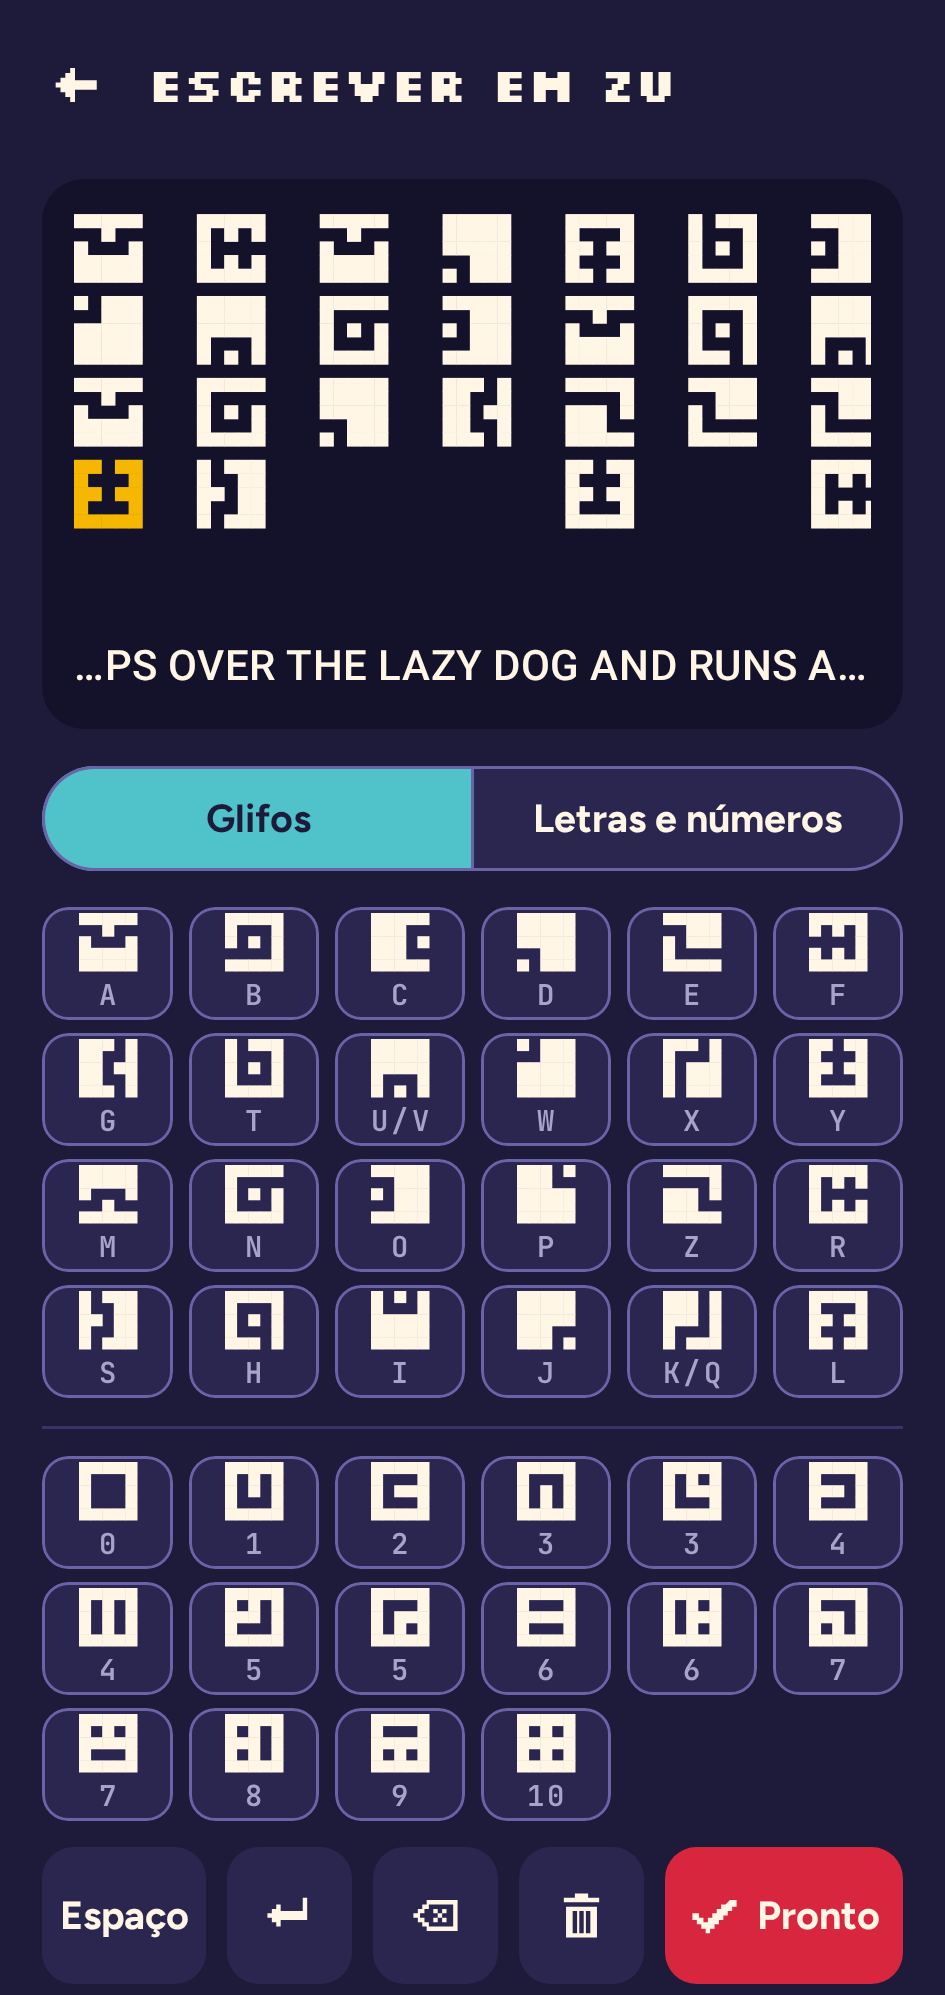
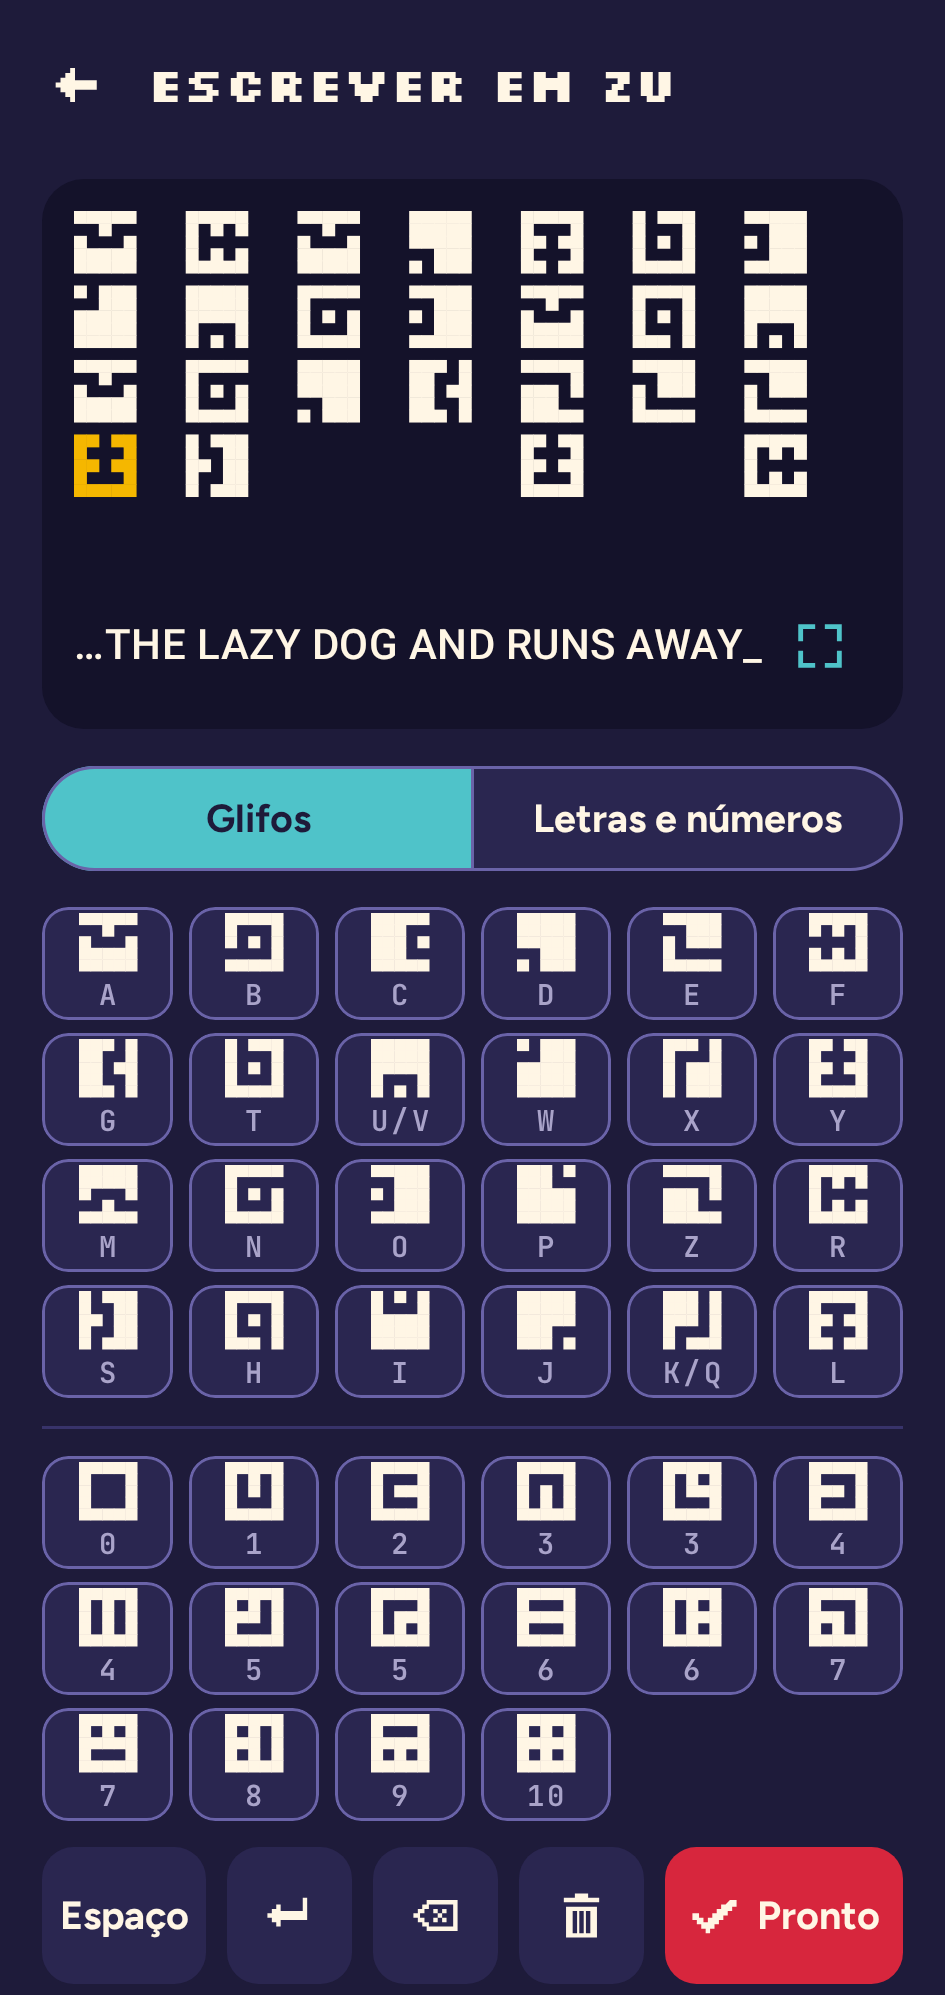
Write by hand: full-screen message modal with zoom
The keyboard keeps priority; an expand button next to the English line
opens the whole message in a full-screen modal (pinch to zoom, drag when
zoomed, full English text); closing returns to typing. The inline
preview draws only whole glyphs, so no half-cut column at the edge.

Claude-Session: https://claude.ai/code/session_01BCnJVnooueZi2qjpizvg1o

Changed region(s): [[0.1841, 0.0932, 0.9206, 0.2797], [0.0921, 0.3108, 0.8899, 0.3419], [0.0614, 0.0932, 0.1534, 0.2797]]

diff --git a/app/src/main/kotlin/com/davicolzer/zureader/ui/write/WriteScreen.kt b/app/src/main/kotlin/com/davicolzer/zureader/ui/write/WriteScreen.kt
@@ -23,6 +23,7 @@ import androidx.compose.material3.Icon
 import androidx.compose.material3.IconButton
 import androidx.compose.material3.MaterialTheme
 import androidx.compose.material3.Scaffold
+import androidx.compose.material3.Surface
 import androidx.compose.material3.SegmentedButton
 import androidx.compose.material3.SegmentedButtonDefaults
 import androidx.compose.material3.SingleChoiceSegmentedButtonRow
@@ -50,6 +51,20 @@ import androidx.compose.ui.semantics.semantics
 import androidx.compose.ui.text.style.TextAlign
 import androidx.compose.ui.text.style.TextOverflow
 import androidx.compose.ui.unit.dp
+import androidx.compose.ui.window.Dialog
+import androidx.compose.ui.window.DialogProperties
+import androidx.compose.foundation.rememberScrollState
+import androidx.compose.foundation.verticalScroll
+import androidx.compose.ui.semantics.heading
+import androidx.compose.foundation.gestures.awaitEachGesture
+import androidx.compose.foundation.gestures.awaitFirstDown
+import androidx.compose.foundation.gestures.calculateCentroid
+import androidx.compose.foundation.gestures.calculatePan
+import androidx.compose.foundation.gestures.calculateZoom
+import androidx.compose.ui.input.pointer.pointerInput
+import androidx.compose.ui.input.pointer.positionChange
+import com.davicolzer.zureader.vision.Point
+import com.davicolzer.zureader.vision.Viewport
 import com.davicolzer.zureader.R
 import com.davicolzer.zureader.ui.components.MiniGlyph
 import com.davicolzer.zureader.ui.theme.ZuTheme
@@ -79,14 +94,20 @@ fun WriteScreen(
     onDone: (String) -> Unit,
     onBack: () -> Unit,
     startWithLetters: Boolean = false,
+    /** Abre já com a mensagem em tela cheia (prévias). */
+    startFullScreen: Boolean = false,
     /** Teclas por linha (4 ou 6; ver [KeyboardLayout]). */
     columns: Int = 6,
 ) {
     val layout = KeyboardLayout.of(columns)
     var text by rememberSaveable(draft) { mutableStateOf(draft) }
     var byLetters by rememberSaveable { mutableStateOf(startWithLetters) }
+    var fullScreen by rememberSaveable { mutableStateOf(startFullScreen) }
     // K/Q e U/V tocados pelo glifo: a letra vem do contexto do inglês e muda enquanto o usuário digita
     val message = ZuWriter.normalize(SharedLetters.resolve(text))
+    if (fullScreen && message.isNotEmpty()) {
+        FullMessage(message, direction, onClose = { fullScreen = false })
+    }
 
     Scaffold(
         containerColor = MaterialTheme.colorScheme.background,
@@ -128,14 +149,25 @@ fun WriteScreen(
                 ZuPreview(message, direction, Modifier.fillMaxWidth().weight(1f))
                 // sem nada escrito, a dica usa a área toda (cabe em tela pequena)
                 if (message.isNotEmpty()) {
-                    Text(
-                        englishLine(message, text.endsWith('\n')),
-                        style = MaterialTheme.typography.titleMedium,
-                        color = MaterialTheme.colorScheme.onBackground,
-                        maxLines = 1,
-                        overflow = TextOverflow.Ellipsis,
-                        modifier = Modifier.fillMaxWidth().semantics { contentDescription = message },
-                    )
+                    Row(verticalAlignment = Alignment.CenterVertically) {
+                        Text(
+                            englishLine(message, text.endsWith('\n')),
+                            style = MaterialTheme.typography.titleMedium,
+                            color = MaterialTheme.colorScheme.onBackground,
+                            maxLines = 1,
+                            overflow = TextOverflow.Ellipsis,
+                            modifier = Modifier.weight(1f).semantics { contentDescription = message },
+                        )
+                        // mensagem grande: o teclado tem prioridade; ampliar abre a mensagem inteira
+                        IconButton(onClick = { fullScreen = true }, modifier = Modifier.size(40.dp)) {
+                            Icon(
+                                painterResource(R.drawable.ic_pixel_expand),
+                                contentDescription = stringResource(R.string.write_expand),
+                                tint = MaterialTheme.colorScheme.tertiary,
+                                modifier = Modifier.size(22.dp),
+                            )
+                        }
+                    }
                 }
             }
 
@@ -219,6 +251,9 @@ private val MESSAGE_MIN = 170.dp
 private val PREVIEW_MIN_GLYPH = 26.dp
 private val PREVIEW_MAX_GLYPH = 44.dp
 
+/** Maior glifo na tela cheia. */
+private val FULL_MAX_GLYPH = 72.dp
+
 /** Altura do resto da tela fora as teclas: escolha Glifos/Letras, linha de ações, separação e espaços. */
 private val FIXED_PARTS = 190.dp
 
@@ -269,9 +304,119 @@ private fun <T> KeyGrid(layout: KeyboardLayout, keyHeight: androidx.compose.ui.u
     }
 }
 
-/** A mensagem desenhada em Zu, ajustada ao espaço; o último glifo em dourado. */
+/** A mensagem inteira em tela cheia (modal): todas as colunas e o texto todo; fechar volta a escrever. */
 @Composable
-private fun ZuPreview(message: String, direction: ReadingDirection, modifier: Modifier) {
+private fun FullMessage(message: String, direction: ReadingDirection, onClose: () -> Unit) {
+    Dialog(onDismissRequest = onClose, properties = DialogProperties(usePlatformDefaultWidth = false)) {
+      Surface(Modifier.fillMaxSize(), color = MaterialTheme.colorScheme.background, contentColor = MaterialTheme.colorScheme.onBackground) {
+        Column(
+            Modifier
+                .fillMaxSize()
+                .navigationBarsPadding()
+                .padding(16.dp),
+            verticalArrangement = Arrangement.spacedBy(12.dp),
+        ) {
+            Row(verticalAlignment = Alignment.CenterVertically) {
+                Text(
+                    stringResource(R.string.write_full_title),
+                    style = MaterialTheme.typography.titleLarge,
+                    modifier = Modifier.weight(1f).semantics { heading() },
+                )
+                IconButton(onClick = onClose) {
+                    Icon(painterResource(R.drawable.ic_pixel_close), stringResource(R.string.write_full_close), Modifier.size(22.dp))
+                }
+            }
+            ZoomableZu(
+                message,
+                direction,
+                Modifier
+                    .fillMaxWidth()
+                    .weight(1f)
+                    .clip(RoundedCornerShape(16.dp))
+                    .background(ZuTheme.colors.ink),
+            )
+            Text(
+                stringResource(R.string.write_full_hint),
+                style = MaterialTheme.typography.bodySmall,
+                color = MaterialTheme.colorScheme.onSurfaceVariant,
+            )
+            Text(
+                ReadingMode.MIXED.display(message),
+                style = MaterialTheme.typography.titleMedium,
+                modifier = Modifier.fillMaxWidth().heightIn(max = 160.dp).verticalScroll(rememberScrollState()),
+            )
+        }
+      }
+    }
+}
+
+/**
+ * A mensagem inteira, que começa mostrando tudo; dois dedos ampliam, e ampliada um dedo arrasta.
+ * (Mesma conta de [Viewport] da foto: a "imagem" é a mensagem em unidades de bloco × 10.)
+ */
+@Composable
+private fun ZoomableZu(message: String, direction: ReadingDirection, modifier: Modifier) {
+    val glyphs = remember(message, direction) { ZuWriter.layout(message, direction) }
+    if (glyphs.isEmpty()) return
+    val ink = MaterialTheme.colorScheme.onBackground
+    val newestColor = ZuTheme.colors.gold
+    val half = glyphs.first().size / 2
+    val margin = half
+    val minX = glyphs.minOf { it.x } - half - margin
+    val minY = glyphs.minOf { it.y } - half - margin
+    val width = ((glyphs.maxOf { it.x } + half + margin - minX) * UNIT).toInt()
+    val height = ((glyphs.maxOf { it.y } + half + margin - minY) * UNIT).toInt()
+    BoxWithConstraints(modifier) {
+        val density = androidx.compose.ui.platform.LocalDensity.current
+        val viewW = with(density) { maxWidth.toPx() }
+        val viewH = with(density) { maxHeight.toPx() }
+        var view by remember(message, viewW, viewH) { mutableStateOf(Viewport.fit(viewW, viewH, width, height)) }
+        Canvas(
+            Modifier
+                .fillMaxSize()
+                .clipToBounds()
+                .pointerInput(message, viewW, viewH) {
+                    awaitEachGesture {
+                        awaitFirstDown(requireUnconsumed = false)
+                        while (true) {
+                            val event = awaitPointerEvent()
+                            val pressed = event.changes.filter { it.pressed }
+                            if (pressed.isEmpty()) break
+                            if (pressed.size >= 2) {
+                                val c = event.calculateCentroid()
+                                val pan = event.calculatePan()
+                                view = view.zoomedAt(c.x, c.y, event.calculateZoom()).panned(pan.x, pan.y)
+                            } else if (view.zoom > 1f) {
+                                val d = pressed.first().positionChange()
+                                view = view.panned(d.x, d.y)
+                            }
+                            event.changes.forEach { it.consume() }
+                        }
+                    }
+                },
+        ) {
+            val cell = 2 * half * UNIT * view.scale / 5
+            glyphs.forEachIndexed { i, g ->
+                val p = view.toView(Point((g.x - half - minX) * UNIT, (g.y - half - minY) * UNIT))
+                val color = if (i == glyphs.lastIndex) newestColor else ink
+                for (r in 0 until 5) for (c in 0 until 5) if (g.bits[r, c]) {
+                    drawRect(color, Offset(p.x + c * cell, p.y + r * cell), Size(cell + 0.5f, cell + 0.5f))
+                }
+            }
+        }
+    }
+}
+
+/** Unidades de bloco → "pixels" da mensagem na tela cheia. */
+private const val UNIT = 10f
+
+/**
+ * A mensagem desenhada em Zu, ajustada ao espaço; o último glifo em dourado.
+ * Com [showAll], tudo cabe (tela cheia); sem, as colunas inteiras ficam legíveis e, se não couberem
+ * todas, aparecem as mais recentes.
+ */
+@Composable
+private fun ZuPreview(message: String, direction: ReadingDirection, modifier: Modifier, showAll: Boolean = false) {
     val glyphs = remember(message, direction) { ZuWriter.layout(message, direction) }
     val ink = MaterialTheme.colorScheme.onBackground
     val last = ZuTheme.colors.gold
@@ -296,7 +441,11 @@ private fun ZuPreview(message: String, direction: ReadingDirection, modifier: Mo
                 // as colunas mais recentes ficam à vista; nunca maior que PREVIEW_MAX_GLYPH
                 val fitAll = minOf(size.width / (maxX - minX), size.height / (maxY - minY))
                 val fitLine = if (direction == ReadingDirection.VERTICAL_RIGHT_TO_LEFT) size.height / (maxY - minY) else size.width / (maxX - minX)
-                val scale = minOf(maxOf(fitAll, minOf(fitLine, PREVIEW_MIN_GLYPH.toPx() / (2 * half))), PREVIEW_MAX_GLYPH.toPx() / (2 * half))
+                val scale = if (showAll) {
+                    minOf(fitAll, FULL_MAX_GLYPH.toPx() / (2 * half))
+                } else {
+                    minOf(maxOf(fitAll, minOf(fitLine, PREVIEW_MIN_GLYPH.toPx() / (2 * half))), PREVIEW_MAX_GLYPH.toPx() / (2 * half))
+                }
                 val contentW = (maxX - minX) * scale
                 val contentH = (maxY - minY) * scale
                 // se não couber, a parte mais recente fica à vista (o último glifo no centro)
@@ -309,6 +458,8 @@ private fun ZuPreview(message: String, direction: ReadingDirection, modifier: Mo
                 glyphs.forEachIndexed { i, g ->
                     val left = offX + (g.x - half - minX) * scale
                     val top = offY + (g.y - half - minY) * scale
+                    // fora o modo "tudo", só glifos inteiros: uma coluna cortada ao meio confunde
+                    if (!showAll && (left < -0.5f || top < -0.5f || left + 2 * half * scale > size.width + 0.5f || top + 2 * half * scale > size.height + 0.5f)) return@forEachIndexed
                     val color = if (i == glyphs.lastIndex) last else ink
                     for (r in 0 until 5) for (c in 0 until 5) if (g.bits[r, c]) {
                         drawRect(color, Offset(left + c * cell, top + r * cell), Size(cell + 0.5f, cell + 0.5f))

diff --git a/docs/PLANO.md b/docs/PLANO.md
@@ -148,7 +148,7 @@ Fontes: **Silkscreen** (títulos e texto lido, pixel), **Figtree** (interface), 
 | **6b. Modelo treinado (opcional)** 🧪 | Testado: rede pequena (MLP 16×16 → 96 → 24 glifos + "não é glifo") treinada com numpy em ~93 mil recortes sintéticos degradados + glifos das paredes reais (gerador `GlyphNetDataGenerator`, script `tools/train_glyphnet.py`); 99,3% na validação. No leitor, ela resgatava glifos borrados e descartava lixo | **Não entrou no app**: nas lápides (fora do treino) o resultado oscilou — lápide 2 inteira subiu de 79% para 95%, mas as recortadas caíram (95% → 84% e 69% → 13%); restringir a correção a grades parecidas não deixou nenhuma variante melhor em todas as fotos. Retomar com mais fotos reais de lápides/pedra para treino |
 | **7. Tradução (opcional)** | ML Kit Translation EN → PT no aparelho, mostrando inglês e português | Só se o projeto decidir retomar a tradução |
 | **8. Números** ✅ | Seletor **Auto / Escrita / Números** (Auto é o padrão: lê em paralelo como escrita, como números e **misturado** — letras e números na mesma frase, ex.: "ROOM 12" —, uma thread por modo, e fica com a leitura de nota maior; a mista só vale com letras e números confiantes no mesmo bloco e letras iguais às da leitura só de escrita; nenhuma letra tem moldura completa e o par mais parecido, B e 0, difere em 2 quadradinhos) na tela inicial e na câmera (fica salvo). Modo números: 16 desenhos (0–10 e variantes de 3–7, todos com moldura e miolo 3×3), sem modelo do inglês, orientação da foto; resultado "3 10 7 / 1 2", correção com teclado 0–10; o modo fica salvo na leitura do histórico; exemplos aprendidos separados por modo | Testes: 16 desenhos distintos com moldura, cada um reconhecido; números em colunas, com ruído, em imagem com borrão/ruído/JPEG e colorida; modo escrita não devolve números; leitura salva guarda o modo (e as antigas abrem como escrita). Tabela real dos números do jogo (0–10, enviada pelo usuário) bate com os 16 desenhos e é lida inteira no modo Auto (`RealNumbersTest`). Placas da biblioteca (números encostados numa faixa em relevo): fatiadas de 4 em 4 blocos; recortadas, são lidas como números. **Falta**: gabarito dos dígitos dessas placas e leitura sem recorte |
-| **9. Escrever à mão (teclado Zu)** ✅ | **Terceira opção na tela inicial** ("Escrever à mão"), no mesmo nível de "Fotografar" e "Escolher da galeria". Tudo numa tela só, sem rolagem (a mensagem ocupa o espaço que o teclado deixa; cabe em 360×640 dp). Dois jeitos de digitar: **Glifos** (para quem copia do jogo e não sabe o que os glifos significam: organizados pelo desenho em 6 colunas, uma coluna por forma e uma linha por rotação, `ZuAlphabet.shapes`, e embaixo, depois de uma separação, todos os 16 desenhos de números, com as variantes de 3 a 7; K/Q e U/V numa tecla só, com a letra escolhida pelo contexto do inglês e atualizada enquanto digita, como na leitura de foto, `SharedLetters`) ou **Letras e números** (A–Z e, depois de uma separação, 0–10, um de cada, com K e Q separados; cada tecla mostra a letra e o glifo dela). 6 teclas por linha, com altura que se ajusta à tela (46 dp, até 36 dp em tela baixa, para a mensagem em Zu continuar com espaço); Espaço, Nova coluna (na leitura horizontal, Nova linha: o próximo glifo começa uma coluna nova), Apagar, Limpar e Pronto numa linha. A mensagem em Zu fica sempre legível: as colunas aparecem inteiras, com os glifos do maior tamanho que a altura permite, e se não couberem todas aparecem as mais recentes (onde o usuário está digitando); o texto em inglês mostra o final, Espaço, Apagar e Limpar tudo; em cima, a mensagem em Zu em colunas (como no jogo, na direção de leitura escolhida, último glifo em dourado) e o texto em inglês. "Pronto" abre a tela de resultado (copiar, compartilhar, salvar no histórico, zoom); voltar reabre o teclado com o texto. A leitura é exata (`ZuWriter`): o texto montado vira a leitura sem passar pelo leitor de imagens | Testes: texto vira imagem e leitura exata (K/Q do usuário mantido; o leitor de imagens lê a mesma coisa na imagem gerada), números e misto, caixas em cima dos glifos desenhados, salvar e abrir igual. Capturas: [tela inicial](design/home-escrever-android.png), [teclado](design/escrever-vazio-android.png), [glifos](design/escrever-texto-android.png), [letras e números](design/escrever-letras-android.png), [tela pequena](design/escrever-pequeno-android.png), [mensagem longa](design/escrever-longo-android.png), [resultado](design/escrever-resultado-android.png) |
+| **9. Escrever à mão (teclado Zu)** ✅ | **Terceira opção na tela inicial** ("Escrever à mão"), no mesmo nível de "Fotografar" e "Escolher da galeria". Tudo numa tela só, sem rolagem (a mensagem ocupa o espaço que o teclado deixa; cabe em 360×640 dp). Dois jeitos de digitar: **Glifos** (para quem copia do jogo e não sabe o que os glifos significam: organizados pelo desenho em 6 colunas, uma coluna por forma e uma linha por rotação, `ZuAlphabet.shapes`, e embaixo, depois de uma separação, todos os 16 desenhos de números, com as variantes de 3 a 7; K/Q e U/V numa tecla só, com a letra escolhida pelo contexto do inglês e atualizada enquanto digita, como na leitura de foto, `SharedLetters`) ou **Letras e números** (A–Z e, depois de uma separação, 0–10, um de cada, com K e Q separados; cada tecla mostra a letra e o glifo dela). 6 teclas por linha, com altura que se ajusta à tela (46 dp, até 36 dp em tela baixa, para a mensagem em Zu continuar com espaço); Espaço, Nova coluna (na leitura horizontal, Nova linha: o próximo glifo começa uma coluna nova), Apagar, Limpar e Pronto numa linha. A mensagem em Zu fica sempre legível: as colunas aparecem inteiras, com os glifos do maior tamanho que a altura permite, e se não couberem todas aparecem as mais recentes (onde o usuário está digitando); o texto em inglês mostra o final. O teclado tem prioridade: com mensagem grande, o botão de ampliar (ao lado do texto) abre a mensagem inteira em tela cheia, num modal com zoom de dois dedos e o texto completo; fechar volta a escrever, Espaço, Apagar e Limpar tudo; em cima, a mensagem em Zu em colunas (como no jogo, na direção de leitura escolhida, último glifo em dourado) e o texto em inglês. "Pronto" abre a tela de resultado (copiar, compartilhar, salvar no histórico, zoom); voltar reabre o teclado com o texto. A leitura é exata (`ZuWriter`): o texto montado vira a leitura sem passar pelo leitor de imagens | Testes: texto vira imagem e leitura exata (K/Q do usuário mantido; o leitor de imagens lê a mesma coisa na imagem gerada), números e misto, caixas em cima dos glifos desenhados, salvar e abrir igual. Capturas: [tela inicial](design/home-escrever-android.png), [teclado](design/escrever-vazio-android.png), [glifos](design/escrever-texto-android.png), [letras e números](design/escrever-letras-android.png), [tela pequena](design/escrever-pequeno-android.png), [mensagem longa](design/escrever-longo-android.png), [tela cheia](design/escrever-tela-cheia-android.png), [resultado](design/escrever-resultado-android.png) |
 
 ### Dados de teste
 
